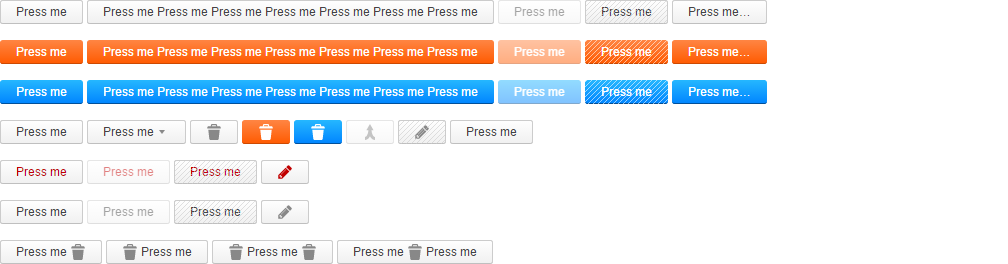
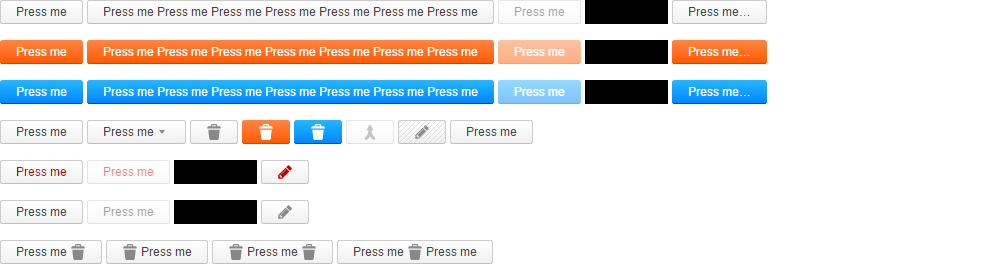
Gemini button suite: use ignoreElements instead of tolerance
Former-commit-id: a48564d7553ac4c86e221dd948c86430d1819b7a

diff --git a/components/button-ng/button-ng.gemini.js b/components/button-ng/button-ng.gemini.js
@@ -2,12 +2,18 @@
 /* eslint-disable modules/no-cjs */
 
 var gemini = require('gemini');
-var ANIMATION_IGNORE_TOLERANCE = 40;
 
 gemini.suite('ButtonNg', function (suite) {
   suite
-    .setTolerance(ANIMATION_IGNORE_TOLERANCE)
-    .setUrl('/example-button-ng')
+    .setUrl('/example-button-ng/')
     .setCaptureElements('body > div')
+    // Only first element in selector is ignored
+    .ignoreElements(
+      'p:nth-child(1) .ring-button_loader',
+      'p:nth-child(2) .ring-button_loader',
+      'p:nth-child(3) .ring-button_loader',
+      'p:nth-child(5) .ring-button_loader',
+      'p:nth-child(6) .ring-button_loader'
+    )
     .capture('buttons');
 });
